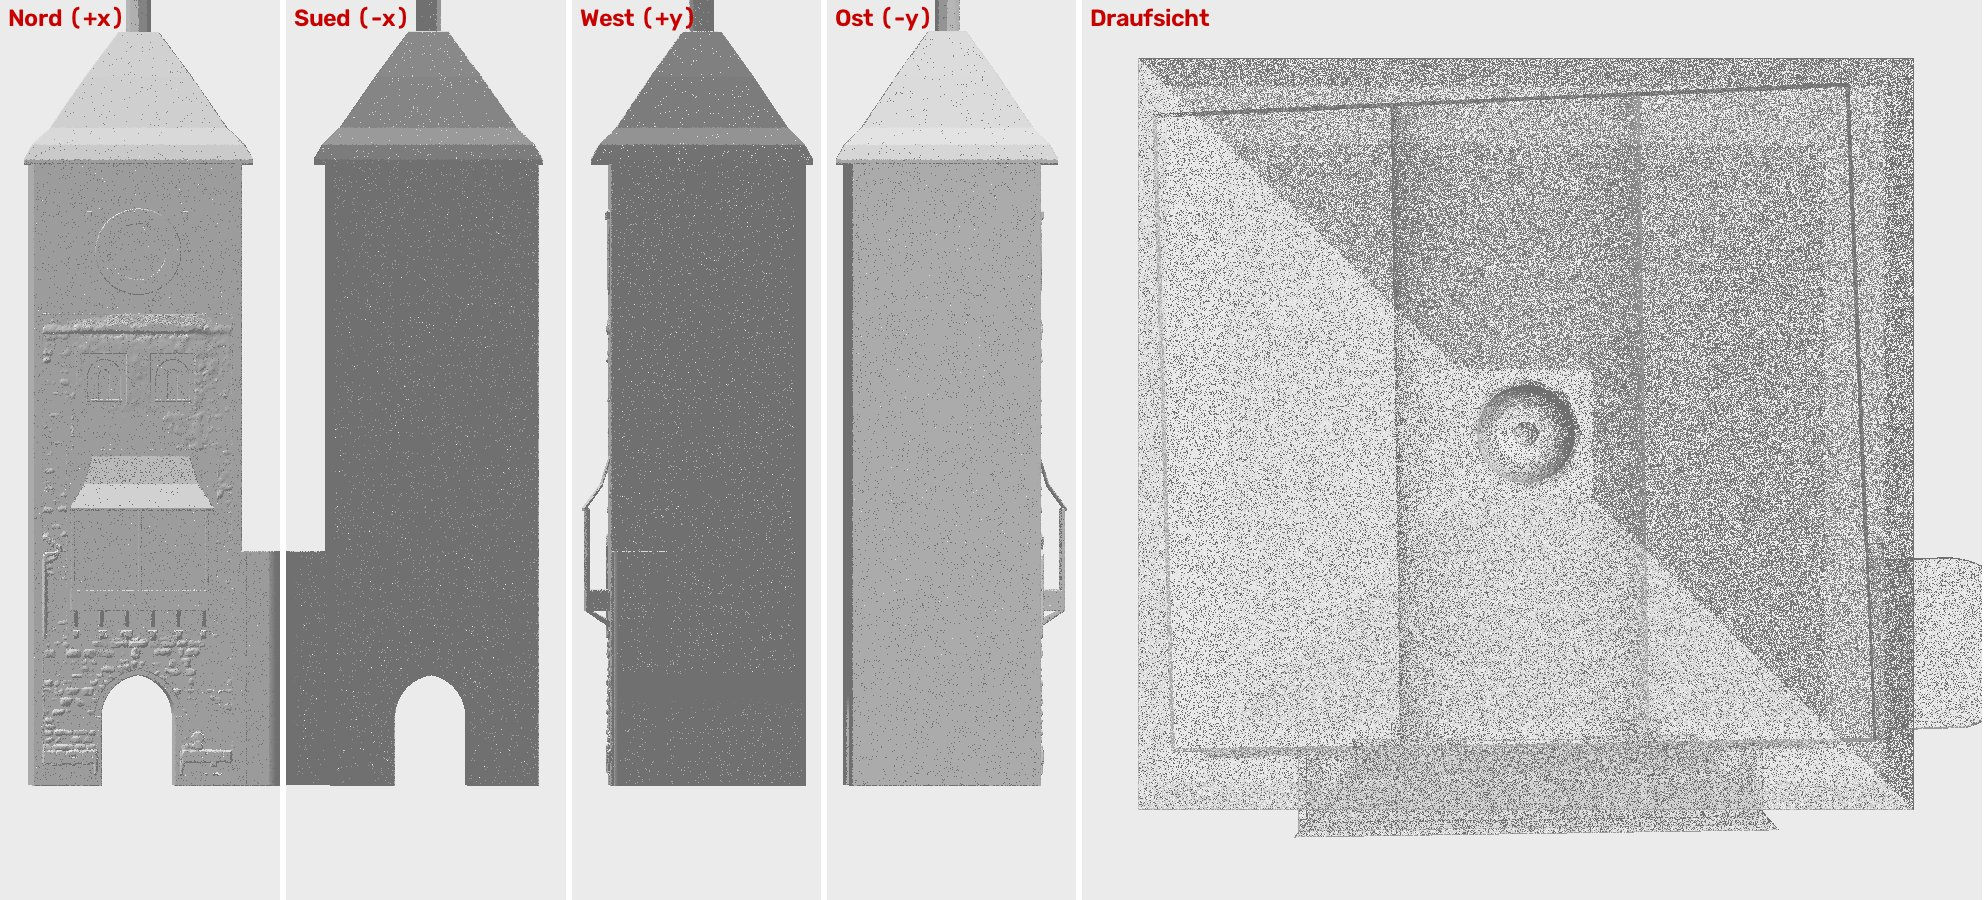
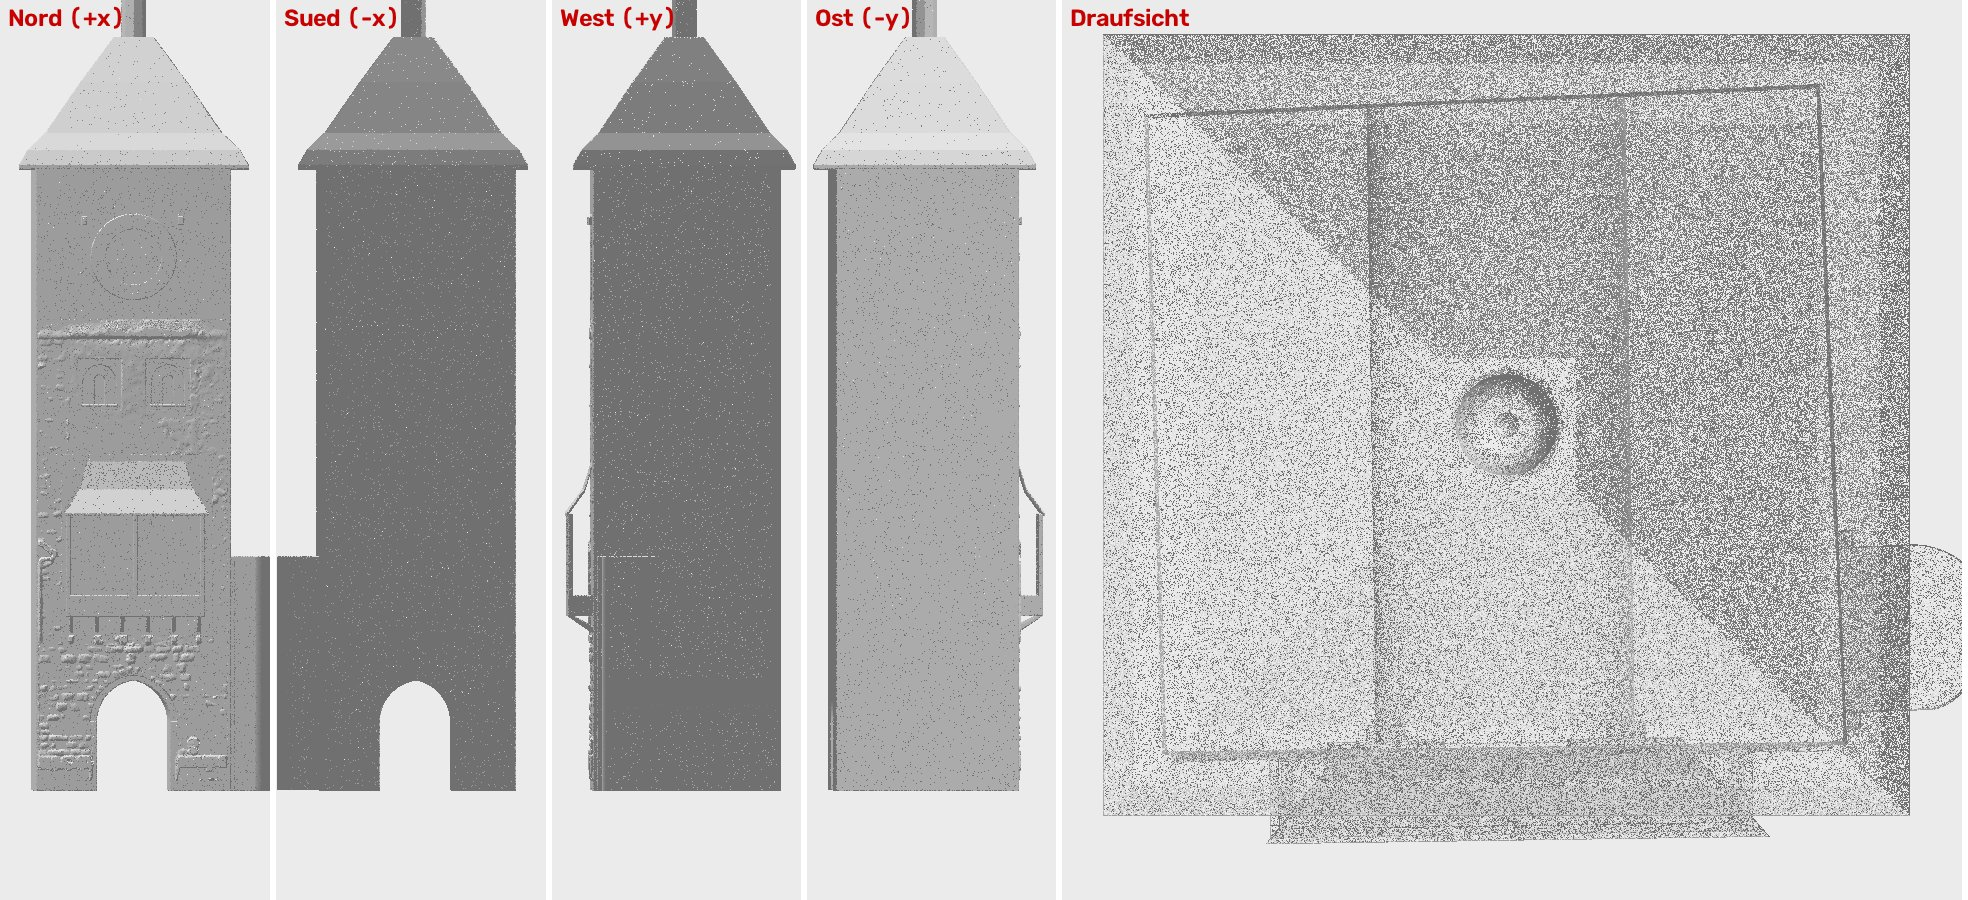
schwab_v3: Grundkoerper waagerecht mitskaliert (Nutzerbild: Koerper stand ueber Relief und Wolke hinaus), Abnahme gruen
Claude-Session: https://claude.ai/code/session_01BMC5F7JqzthTsrTAV2gKLz

diff --git a/modelle/schwab_v3_gen.py b/modelle/schwab_v3_gen.py
@@ -24,7 +24,12 @@ if obj.get("lod2", {}).get("id"):                    # Standard: LoD2-Grundriss 
     # wie gemessen bauen, am Ende den ganzen Koerper mit MK skalieren -> LoD2-Teile bleiben amtlich, Fototeile bekommen den Lasermassstab.
     MK, MC = 0.933, (-2.15, 15.28, 0.0)                    # 0,947 (Laser Traufpixel/Vordach) x 0,985 (Hoehen-Tor: 61 ebene Dachpixel)
     def massstab(k_, f): return k_.translate((-MC[0], -MC[1], -MC[2])).scale((f, f, f)).translate(MC)
-    koerper = massstab(koerper, 1.0 / MK); haupt = (np.asarray(haupt) - np.array(MC[:2])) / MK + np.array(MC[:2])
+    # 15.11.2026 (Nutzerbild 14:36, Koerper stand als glatter Streifen ueber Relief und Wolke hinaus): der LoD2-GRUNDRISS wird MIT skaliert. Im Rohrahmen lag er
+    # auf den Wolkenwaenden (+-0,2 m); im Lasermassstab sind die Wolkenwaende aller vier Seiten 0,2-0,6 m schmaler als LoD2 (LoD2 = Sockelumring, Schaft 11,3 m).
+    # Waagerecht gilt also Wolke/Foto (Lage-Veto), nur die amtlichen HOEHEN der LoD2-Nebenteile bleiben (z vorab durch MK geteilt).
+    koerper = koerper.scale((1.0, 1.0, 1.0 / MK))
+    beleg("wand", "Grundriss Schaft = LoD2-Umriss x 0,933", "Wolkenwaende aller vier Seiten im Lasermassstab (tools/..., Stand 15.11.): LoD2 unskaliert 0,2-0,6 m zu breit, skaliert +-0,2 m",
+          hinweis="ANNAHME fuer Sued/Ost/West: Wandlage aus der Wolke (nur Nordwand am Foto gepeilt); Anzug/Sockel nicht gebaut")
     N_BELEGE_LOD2 = len(ELEMENTE)
     ZT = 39.26                                # Traufe aussen oben: Ecken A 39,20 / C 39,32 (M-113205-008/-009, nach Lotkorrektur)
     X1, Y0, Y1 = 4.80, 8.20, 22.55            # Traufkante Nord (x) und Ecken Ost/West (y), gleiche Protokolle

diff --git a/modelle/schwab_v3/MASSNACHWEIS.md b/modelle/schwab_v3/MASSNACHWEIS.md
@@ -49,11 +49,12 @@ Massstab: *dokument/lod2/laser* = absolut; *foto_intern* = bekanntes Mass im sel
 - **laser_dom1**: 1 von 1 Pruefungen gruen (1-m-Raster, interpoliert, nur von oben; Strukturen < ~3 m verschmiert, Nadeln unsichtbar. BLIND auch fuer Grundriss mit Vorspruengen < ~1 m (Gesims, Erker): die Flaeche ueber Hoehe faellt dann 15-20 % zu klein aus (Martinstor 2026-11-01, Register O/P))
 - **foto_kalibriert**: 27 von 27 Pruefungen gruen (Kamera aus amtlichen Ankern (LoD2/DOM1), Pixel->Meter auf bekannter Ebene; +-0,1-0,3 m je Mass, +-1 m systematisch in der Hoehe (Ankerhoehen))
 
-## Elemente des Generators: 13 belegt, 0 Annahmen
+## Elemente des Generators: 14 belegt, 0 Annahmen
 
 - wand: Grundriss Teil 0 - LoD2 DEBW_001000hPLcp GroundSurface 0
 - wand: Teil 1 (ohne Dachmessung) - LoD2 DEBW_001000hPLcp Wandoberkante (31 eigene Waende)
 - wand: Grundriss Teil 1 - LoD2 DEBW_001000hPLcp GroundSurface 1
+- wand: Grundriss Schaft = LoD2-Umriss x 0,933 - Wolkenwaende aller vier Seiten im Lasermassstab (tools/..., Stand 15.11.): LoD2 unskaliert 0,2-0,6 m zu breit, skaliert +-0,2 m
 - dach: Zeltdach mit Ueberstand - Foto-Triangulation Nordseite (foto_mass.py --tri, M-113205-008/-009/-010, Rahmen lotrecht aus Foto-Vertikalen)
 - wand: Hauptteil Wand bis Traufe - LoD2 DEBW_001000hPLcp GroundSurface 0; Nordwand am Foto bestaetigt (M-113205-006/-007)
 - dach: Laterne mit Zwiebelhaube - Knauf-Hoehe 54,17 m aus Foto-Triangulation (M-113205-005)
@@ -81,13 +82,15 @@ Massstab: *dokument/lod2/laser* = absolut; *foto_intern* = bekanntes Mass im sel
 - 2026-11-15 Claude: QUELLENWIDERSPRUCH HOEHE (nicht gemittelt): Foto-Triangulation Nord: Traufe 39,26 m, Dach an der Wandlinie ~40,9 m, gedachte Spitze 49,25 m, Knauf 54,18 m. Amtlich: LoD2-Wandoberkante 37,0 m, Laser-Dachfit DOM1 Wandlinie 36,7 m / Spitze 45,5 m, DOM1-Maximum ueber der Turmmitte 49,6 m (DGM1 am Tor 282,1 = Rahmenhoehe, also KEIN Hoehenbezugsfehler). Die amtlichen Werte liegen 3,7-4,5 m bzw. ~8-9 % unter den Fotowerten. Dazu: die Fotogruppe der SUEDSEITE bildet ein Teilmodell mit Massstab ~0,89 (Wolke: Suedwand nur 10,7 m breit statt 12,03, Traufe dort bei z 35) - auf LoD2-Breite hochgerechnet ergibt auch sie ~39-40 m. Fuer die Fotowerte sprechen also zwei Fotogruppen, fuer 36-37 m zwei amtliche Quellen. -> Entscheidend und SfM-frei messen: in EINEM entzerrten Frontalfoto das Verhaeltnis Traufhoehe : Turmbreite (Breite 12,1 m amtlich) per foto_mass.py mit Massstab aus der Turmbreite; zusaetzlich DOM1-Profil quer ueber das Dach gegen das Modell legen. Danach SfM neu (eine Kamera je Geraet statt PER_IMAGE, GPS als Vorgabe - offene Punkte 3 und 5), damit Sued/West/Ost im gleichen Massstab liegen; bis dahin an der Suedseite NICHT messen. Bis zur Klaerung gelten die Fotomasse Nord (Kernmethode), Hoehen aber als UNSICHER +-4 m
 - 2026-11-15 Claude: HOEHE GEKLAERT ZU UNGUNSTEN DER FOTOMASSE: DOM1-Laser direkt abgefragt (1-m-Pixel, Gelaende am Tor = Rahmenhoehe). Dachflaeche im Abstand r von der Dachmitte: r 3 m 41,3-41,9 / r 4 m 39,8-40,5 / r 5 m 38,4-38,7 / r 6 m 37,1-37,7 m; Traufpixel 0,3-0,7 m vor der Nordwand 37,1-37,3 m; Vordach-Traufzone 16,4 m; Turmmitte 49,6 m. Modell aus den Nordfotos an denselben Stellen: 44,8 / 43,4 / 42,0 / 40,6; Traufe 39,26; Vordach-Traufe 17,25-17,4; Laterne bis 54-55. Die Fotohoehen sind um ~5,5 % gestreckt (16,4/17,3 = 0,948; 37,2/39,3 = 0,946), am Dach bis 3 m zu hoch; waagerecht stimmt das Modell mit LoD2 (Turmbreite 12,16 gegen 12,03-12,16). Der Laser sieht Flaechenhoehen direkt -> die Hoehen des Modells (Traufe, Dach, Vordach, Fenster, Uhr, Laterne) sind ZU HOCH. Ausserdem ist das echte Dach an der Traufe flacher (Aufschiebling: 0,9 m/m zwischen r 5 und 6, darueber ~1,45 m/m). -> NICHT im Generator mit einem Faktor flicken (die K-Kameras leben im gestreckten Rahmen, Foto-Tore wuerden brechen; eine reine Hoehenstreckung laesst sich nicht als Lochkamera mit einem f abbilden). Ursache im SfM beheben: Neulauf mit einer Kamera je Geraet statt PER_IMAGE und GPS als Vorgabe (offene Punkte 3 und 5), danach Ausrichtung mit Hoehen-Tor gegen DOM1 (neues Tor: Dach-/Vordachflaechen der Wolke gegen DOM1-Pixel, Massstab in z getrennt pruefen), Lot aus Fotos, K-Dateien neu, alle Protokolle M-* neu rechnen (Picks bleiben gueltig), Sollwerte mit Historie nachfuehren. Bis dahin: Modellhoehen ~5,5 % zu gross, kein Druck.
 - 2026-11-15 Claude: Nach der Massstabskorrektur 0,947: Modell-Dachflaeche liegt noch im Median +0,66 m ueber dem DOM1-Laser (r 3-6 m von der Dachmitte: Laser 41,4 / 39,8 / 38,4 / 37,4, Modell 42,2 / 40,9 / 39,5 / 38,1), Vordach +0,3 m (16,7 gegen 16,4), hoechster Punkt 52,4 gegen DOM1-Mitte 49,6. Vorher +3,2 m. Rest = Massstab noch ~1-2 % zu gross (k eher 0,93) und/oder Dachform (echtes Dach an der Traufe flacher = Aufschiebling, Modell gerade Pyramide). -> Hoehen-Tor als Werkzeug: Modell-/Wolkenflaechen (Dach, Vordach, Nachbardaecher) gegen DOM1-Pixel ausgleichen -> Massstab k mit Streuung; Dach als zweiteilige Flaeche (Aufschiebling) aus dem Laserprofil + Fotokante; dann Pruefung 'Dachflaeche gegen DOM1' (laser_dom1, hoehe_flaeche) anlegen
-- auto fehlteile_finden (Foto eigen__IMG_20261106_113128, Treffer 4): Foto zeigt Struktur ohne Modellgegenstueck bei z=23.4 m, y=9.15 m (Zelle [486, 3078, 162], Score +1.00) -> audit/fehlteile_eigen__IMG_20261106_113128.jpg Treffer 4 ansehen, Element benennen, Zeile + beleg()
 - auto fehlteile_finden (Foto eigen__IMG_20261106_113231, Treffer 1): Foto zeigt Struktur ohne Modellgegenstueck bei z=31.96 m, y=9.34 m (Zelle [972, 1296, 108], Score +1.00) -> audit/fehlteile_eigen__IMG_20261106_113231.jpg Treffer 1 ansehen, Element benennen, Zeile + beleg()
 - auto fehlteile_finden (Foto eigen__IMG_20261106_113231, Treffer 2): Foto zeigt Struktur ohne Modellgegenstueck bei z=31.76 m, y=20.74 m (Zelle [1836, 1296, 108], Score +1.00) -> audit/fehlteile_eigen__IMG_20261106_113231.jpg Treffer 2 ansehen, Element benennen, Zeile + beleg()
 - auto fehlteile_finden (Foto eigen__IMG_20261106_113231, Treffer 3): Foto zeigt Struktur ohne Modellgegenstueck bei z=29.67 m, y=20.64 m (Zelle [1836, 1404, 108], Score +1.00) -> audit/fehlteile_eigen__IMG_20261106_113231.jpg Treffer 3 ansehen, Element benennen, Zeile + beleg()
 - auto fehlteile_finden (Foto eigen__IMG_20261106_113231, Treffer 4): Foto zeigt Struktur ohne Modellgegenstueck bei z=24.54 m, y=9.15 m (Zelle [864, 1836, 108], Score +1.00) -> audit/fehlteile_eigen__IMG_20261106_113231.jpg Treffer 4 ansehen, Element benennen, Zeile + beleg()
 - auto fehlteile_finden (Foto eigen__IMG_20261106_113231, Treffer 5): Foto zeigt Struktur ohne Modellgegenstueck bei z=22.78 m, y=9.16 m (Zelle [864, 1944, 108], Score +1.00) -> audit/fehlteile_eigen__IMG_20261106_113231.jpg Treffer 5 ansehen, Element benennen, Zeile + beleg()
 - auto fehlteile_finden (Foto eigen__IMG_20261106_113231, Treffer 6): Foto zeigt Struktur ohne Modellgegenstueck bei z=21.06 m, y=9.17 m (Zelle [864, 2052, 108], Score +1.00) -> audit/fehlteile_eigen__IMG_20261106_113231.jpg Treffer 6 ansehen, Element benennen, Zeile + beleg()
+- auto fehlteile_finden (Foto eigen__IMG_20261106_113128, Treffer 4): Foto zeigt Struktur ohne Modellgegenstueck bei z=23.4 m, y=9.15 m (Zelle [486, 3078, 162], Score +1.00) -> audit/fehlteile_eigen__IMG_20261106_113128.jpg Treffer 4 ansehen, Element benennen, Zeile + beleg()
+- 2026-11-15 hoehe_gegen_dom1.py / Claude: Hoehen-Tor nach Massstab 0,933 und geschweiftem Dach: 62 ebene Dachpixel, Modell - Laser +0,46 m (MAD 0,12) beim besten Lageversatz des Modells (0 / -0,5 m); ohne Versatz +0,56 m. Das Modelldach liegt also ~0,5 m zu weit in +y (West) gegenueber dem Laser und noch knapp 0,5 m zu hoch (Tor mit Toleranz 0,5 m gerade bestanden). -> Klaeren, ob nur das Dach (Traufecken Ost 8,20 / West 22,55 roh, Ueberstand ungleich 1,02 / 1,17) oder die ganze Ausrichtung 0,5 m in y versetzt ist: Wolkenwaende Ost/West gegen LoD2 im neuen Massstab, Nachbardaecher gegen DOM1; Dachprofil-Stuetzpunkte aus allen Dachpixeln ausgleichen statt aus 4 Linien
+- 2026-11-15 Nutzer (3D-Seite V14, Bildschirmfoto 14:36, rot markiert): Am Turmfuss neben dem Nordtor steht der Modellkoerper als glatter Streifen seitlich ueber die Relief-Fassade und ueber die Wolke hinaus (senkrechte Kante im Modell, die es am Bau nicht gibt). Bild audit/beobachtung_1436_koerper_breiter_als_wolke.jpg -> Ursache pruefen: seit der Massstabskorrektur bleibt der LoD2-Grundkoerper unskaliert (12,1 m), die Fototeile sind mit 0,933 skaliert (Schaft 11,3 m) -> Koerper je Seite ~0,4 m zu breit. Wolkenwaende im neuen Rahmen gegen den Koerper messen, Koerper an die Wolke/Fotowand legen
 
 ## Grenze
 

diff --git a/modelle/STAND_2026-11-14.md b/modelle/STAND_2026-11-14.md
@@ -204,3 +204,4 @@
 - **21:00 GPU-Job gestartet: `rcpark-v3_turm_lg`** (rc-park_daten/schwab_v3/turm_lg/job.log): 387 Turmfotos (namen.txt, ohne Insel-Kette), alle 74 691 Paare mit ALIKED + LightGlue (tools/lg_match.py, 4096 Merkmale, 2048 px) -> turm.npz. Probe mit 3 Bildern lief (7 s). Der ONNX-Fehler von heute Nacht war KEIN Programmfehler, sondern GPU-Speicher voll (Anforderung 1,9 GB, parallel lief ein anderer Job). DANACH: turm.npz mit tools/sfm_netz.py --matcher lightglue in eine neue COLMAP-Datenbank, Mapper, Ausrichtung auf den jetzigen Rahmen (gemeinsame Nordkameras), dann Tore: kette_insel_pruefen, Hoehen-Tor, neu "Knauf aus jeder Fotogruppe auf 0,3 m gleich" (Knauf-Picks Sued: commons 191 (668,195), 127 (476,124), 052 (522,122)).
 - **21:05 WARNUNG zum laufenden Job v3_turm_lg (aus tools/sfm_netz.py, Lehre Martinstor):** Fotos GEGENUEBERLIEGENDER Seiten duerfen nicht zusammen gematcht werden - gleiche Fassaden (hier: Nord- und Suedseite haben beide Uhr, Eckquader, Bogen) werden sonst verklebt. Das kann auch die Ursache des verzerrten Sued-Teilmodells im jetzigen SfM sein (dort Brute-Force ueber die Paarliste). Der Job rechnet alle Paare; beim UEBERNEHMEN in die Datenbank daher Paare filtern: nur Kameras mit Azimut-Unterschied <= ~100 Grad um den Turm (Azimut aus den jetzigen K-Dateien), Nord<->Sued-Paare verwerfen. Erst pruefen: wie viele Nord<->Sued-Paare haben im jetzigen db.db und im neuen npz geometrisch bestaetigte Zuordnungen (= Verklebung nachweisen).
 - **21:20 Verknuepfung der Turmseiten im JETZIGEN SfM gezaehlt** (pipe/sfm/db.db, 452 Turmkameras, bestaetigte Paare >= 30 Inlier nach Azimut-Unterschied): 0-45 Grad 7 107 Paare / 5,28 Mio Inlier; 45-90 Grad 140 Paare / 8 062; 90-135 Grad 0; 135-180 Grad 12 Paare / 419 Inlier. Also: die Seiten haengen nur ueber 140 schwache Eckpaare zusammen, dazu 12 vermutlich falsche Nord<->Sued-Paare (je 30-59 Inlier, gleiche Fassadenmotive). Das erklaert das verzerrte Sued-Teilmodell besser als eine massenhafte Verklebung. Fuer den Neuaufbau: Paare > 120 Grad verwerfen, Eckpaare (45-120 Grad) aus dem ALIKED+LightGlue-Lauf sind der eigentliche Gewinn - nach dem Job zuerst zaehlen, wie viele es sind.
+- **21:40 Nutzerbild 14:36 (Koerper steht als glatter Streifen ueber Relief und Wolke hinaus) BEHOBEN.** Ursache: seit der Massstabskorrektur blieb der LoD2-Grundkoerper unskaliert (12,1 m), die Fototeile waren skaliert (Schaft 11,3 m). Gemessen: Wolkenwaende im neuen Rahmen 0,2-0,6 m INNERHALB des unskalierten LoD2 auf allen vier Seiten; gegen LoD2 x 0,933 nur +-0,2 m. Generator: LoD2-Grundriss wird waagerecht mitskaliert, nur die amtlichen Hoehen der Nebenteile bleiben. Abnahme gruen, Hoehen-Tor unveraendert bestanden (+0,46 m). Kontrollbild audit/schnitt_fuss_wolke_modell.jpg (Schnitt z 3-6 m: Modell rot auf den Wolkenwaenden Nord/Sued, Treppenturm passt). Hinweis: Foto-Diagnose fehlteile_finden lief in dieser Abnahme wegen GPU-Speicher (Job v3_turm_lg) nicht durch - nach dem Job wiederholen. Offen: Wandlage Sued/Ost/West nur aus der Wolke (ANNAHME), Anzug/Sockel nicht gebaut. 3D-Seite Version 15.
